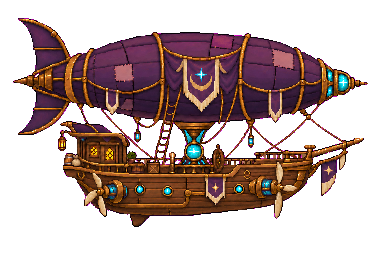
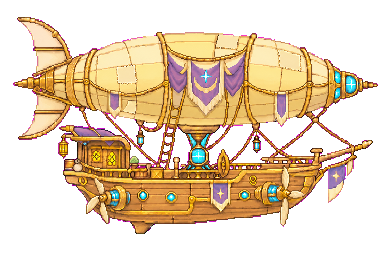
alpha28.0.4.2: recolor Airship to pastel cream palette

diff --git a/src/Cardcha/ModEntry.cs b/src/Cardcha/ModEntry.cs
@@ -203,7 +203,7 @@ internal sealed class ModEntry : Mod
         MimiProfileMenuPatch.Apply(harmony);
 
         this.Monitor.Log(
-            $"Cardcha! v0.3.0-alpha.28.0.4.1 AIRSHIP VISUAL TEST with {this.Cards.All.Count} cards. The cardboard is now combat-capable. This seems unsafe.",
+            $"Cardcha! v0.3.0-alpha.28.0.4.2 AIRSHIP PASTEL VISUAL TEST with {this.Cards.All.Count} cards. The cardboard is now combat-capable. This seems unsafe.",
             LogLevel.Info
         );
     }
@@ -911,7 +911,7 @@ internal sealed class ModEntry : Mod
     private void CommandVersion(string command, string[] args)
     {
         this.Monitor.Log(
-            "Cardcha! v0.3.0-alpha.28.0.4.1 AIRSHIP VISUAL TEST",
+            "Cardcha! v0.3.0-alpha.28.0.4.2 AIRSHIP PASTEL VISUAL TEST",
             LogLevel.Alert
         );
     }
